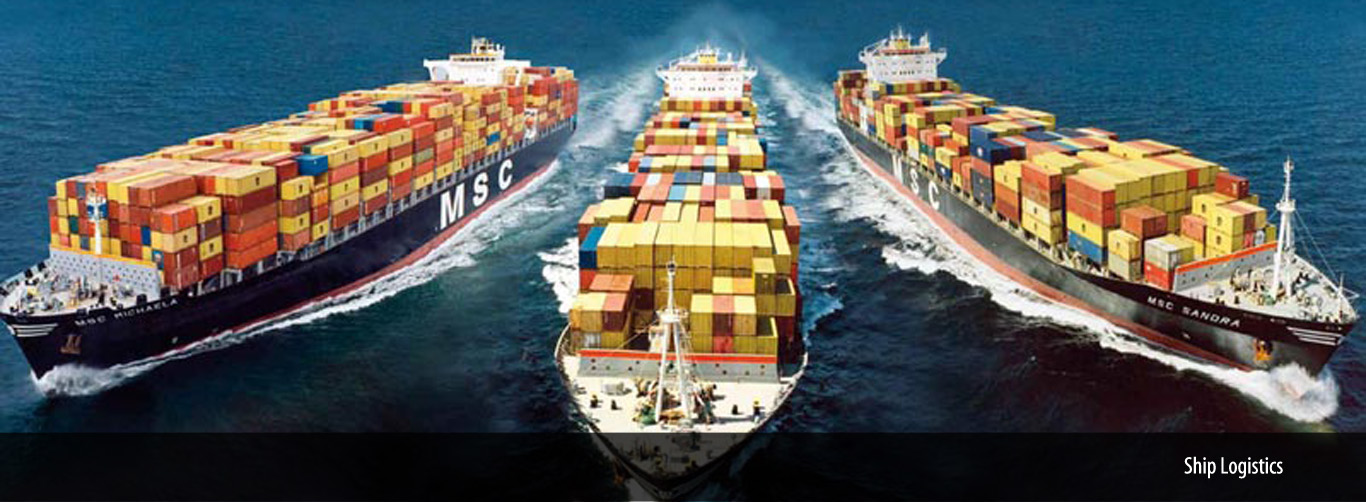
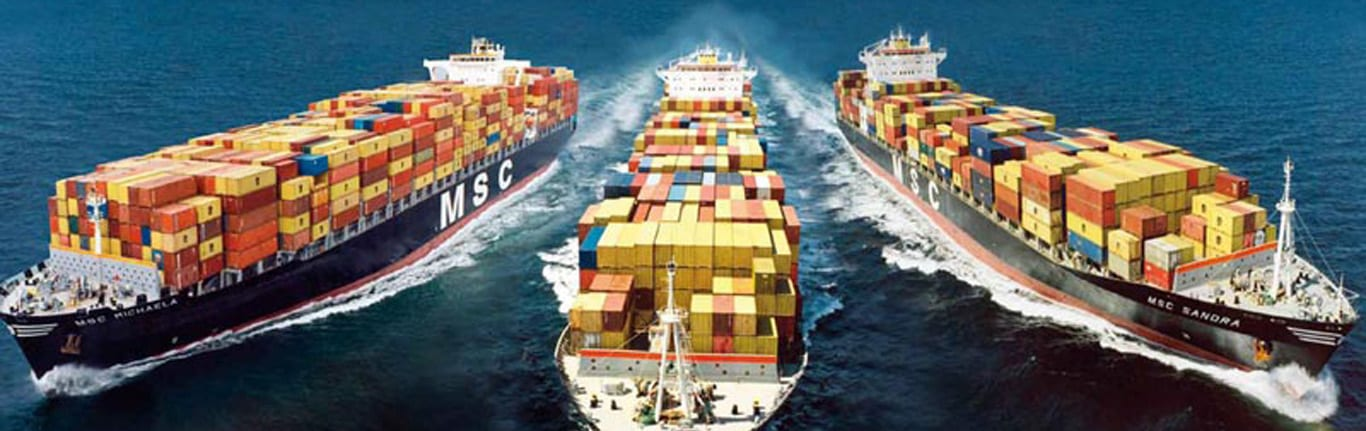
Fix visual issues found in live-site QA.
- Home "Books" card showed a biscuits photo; use the books photo from
  Things We Send. "Photos" card had cropped baked-in text; use the
  clean family photo. Both are sharper (640x480 vs 250x150).
- Trim the old site's caption bar (e.g. "Your Gift or Parcel ...
  567*/kg", "Surface Logistics") from the bottom of all five banner
  photos; it showed behind the new promo strip. Files also got smaller.
- Phone/tablet footer: fade the flag photo to solid navy behind the
  text so headings like "Track Shipment" are readable over the chakra.

diff --git a/src/components/public/Footer.jsx b/src/components/public/Footer.jsx
@@ -42,7 +42,15 @@ export default function Footer() {
           className="absolute inset-0 h-full w-full object-cover object-left"
           decoding="async"
         />
-        <div className="absolute inset-0 bg-gradient-to-b from-transparent via-primary-900/30 to-primary-900 lg:hidden" />
+        {/* Phones/tablets: flag stays visible in the top band, then fades to solid
+            navy behind the footer text so headings and links stay readable. */}
+        <div
+          className="absolute inset-0 lg:hidden"
+          style={{
+            background:
+              'linear-gradient(180deg, rgba(10,51,82,0.15) 0px, rgba(10,51,82,0.55) 140px, rgba(10,51,82,0.92) 230px, #0a3352 320px)',
+          }}
+        />
         <div
           className="absolute inset-0 hidden lg:block"
           style={{
